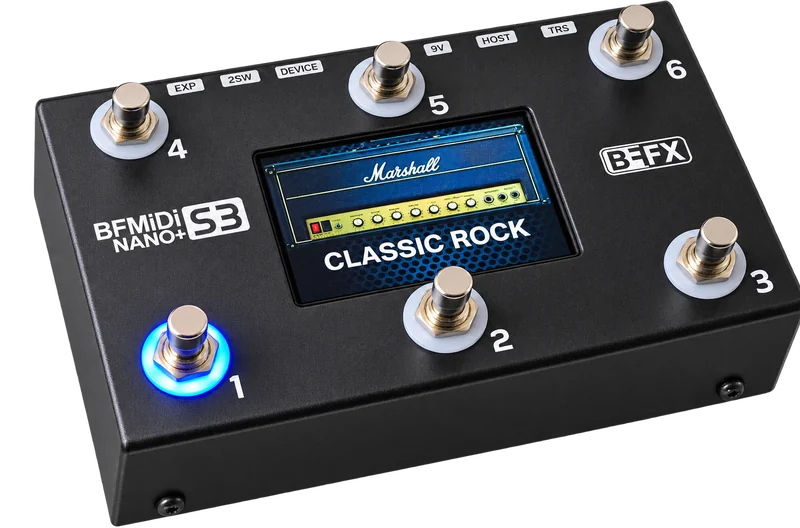
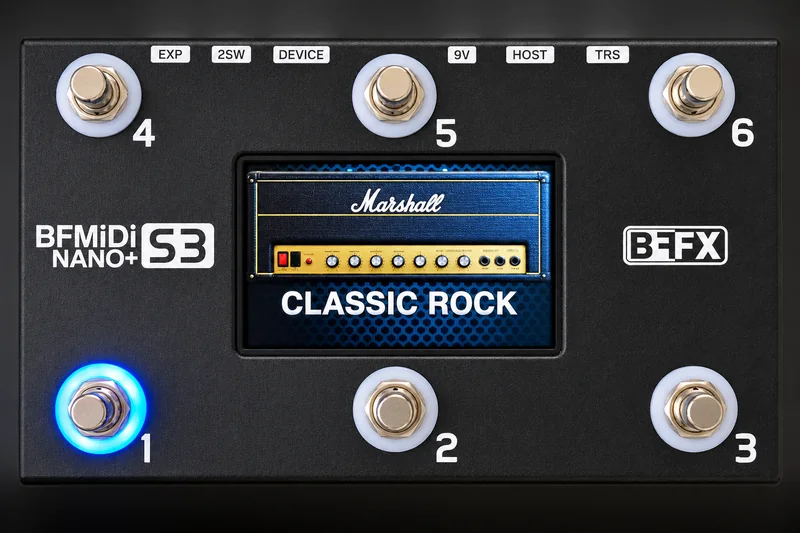
Atualiza foto principal da NANO+

diff --git a/js/content.js b/js/content.js
@@ -184,9 +184,8 @@ window.BF_CONTENT = (function () {
         lead: 'Seis footswitches e tela colorida em formato compacto.',
         cta: 'Ver detalhes',
         shot: 'nano-hero',
-        shotAlt: 'BFMIDI NANO+ em perspectiva: seis footswitches em duas fileiras, ' +
-                 'a tela colorida acesa com o preset CLASSIC ROCK e o anel de LED ' +
-                 'azul aceso no footswitch 1.',
+        shotAlt: 'BFMIDI NANO+ vista de frente: seis footswitches, tela colorida ' +
+                 'com o preset CLASSIC ROCK e anel azul aceso no footswitch 1.',
         switches: 6,
         specs: [
           specSwitches(6, 'Os mesmos seis presets por banco, num corpo bem menor.'),
